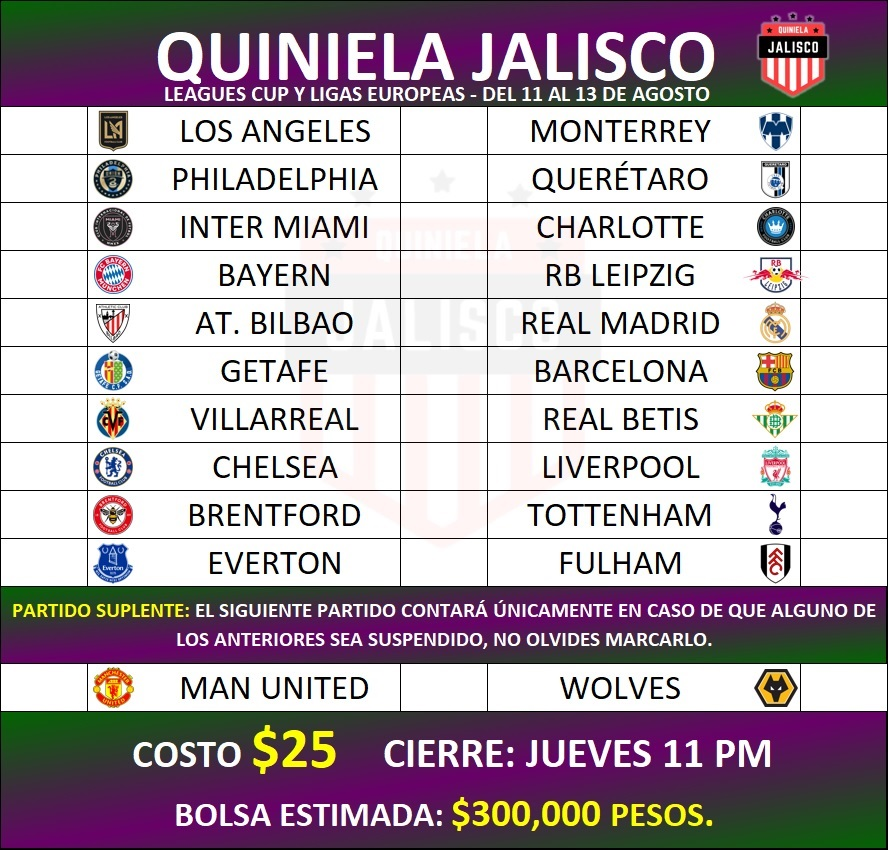
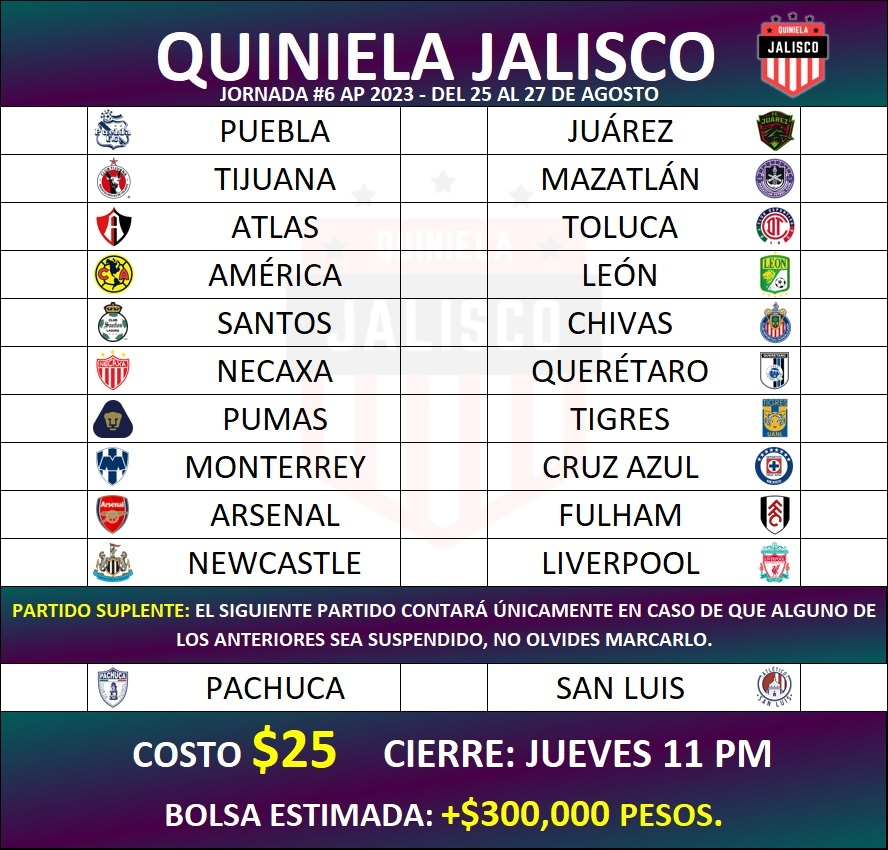
Jornada 6 A23

diff --git a/11/styles11.css b/11/styles11.css
@@ -94,8 +94,8 @@ body{
     margin-top: 9%;
     border-top: solid 1px black;
     border-radius: 0 0 14px 14px;
-    background: -webkit-linear-gradient(1turn, rgb(3,98,6) -28% ,rgb(101,4,99) 110%);
-    background: linear-gradient(1turn, rgb(3,98,6) -28% ,rgb(101,4,99) 110%);
+    background: -webkit-linear-gradient(0.06turn, rgb(20,65,85) -28% ,rgb(101,4,99) 110%);
+    background: linear-gradient(0.06turn, rgb(20,65,85) -28% ,rgb(101,4,99) 110%);
 }
 
 .text-lg{
